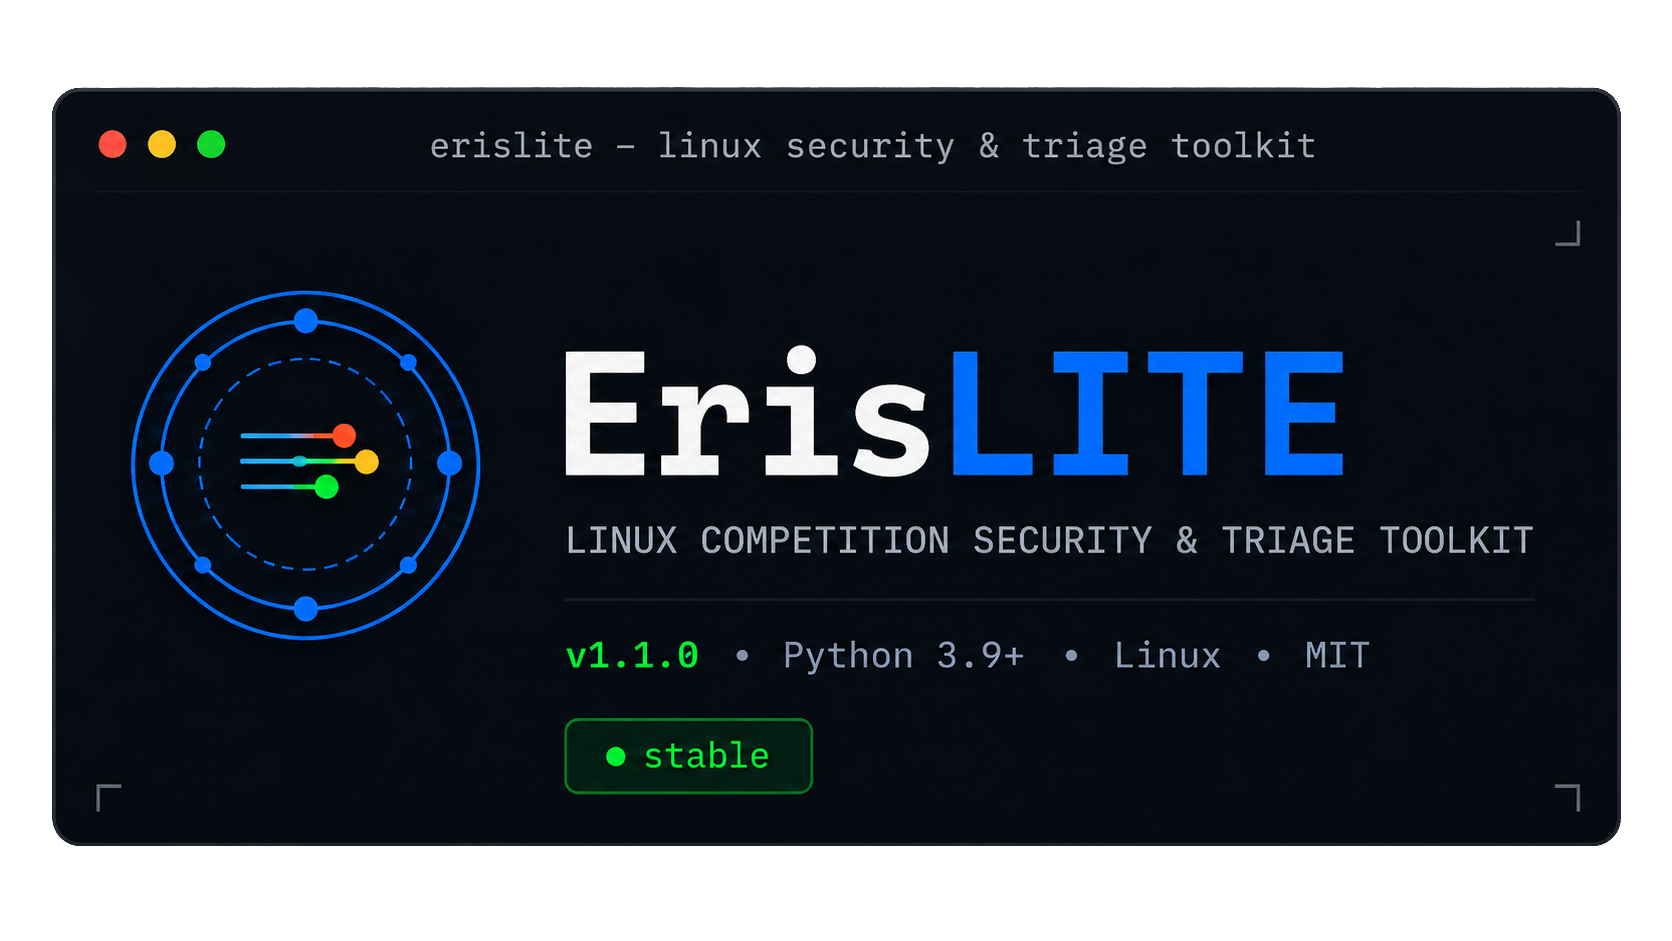
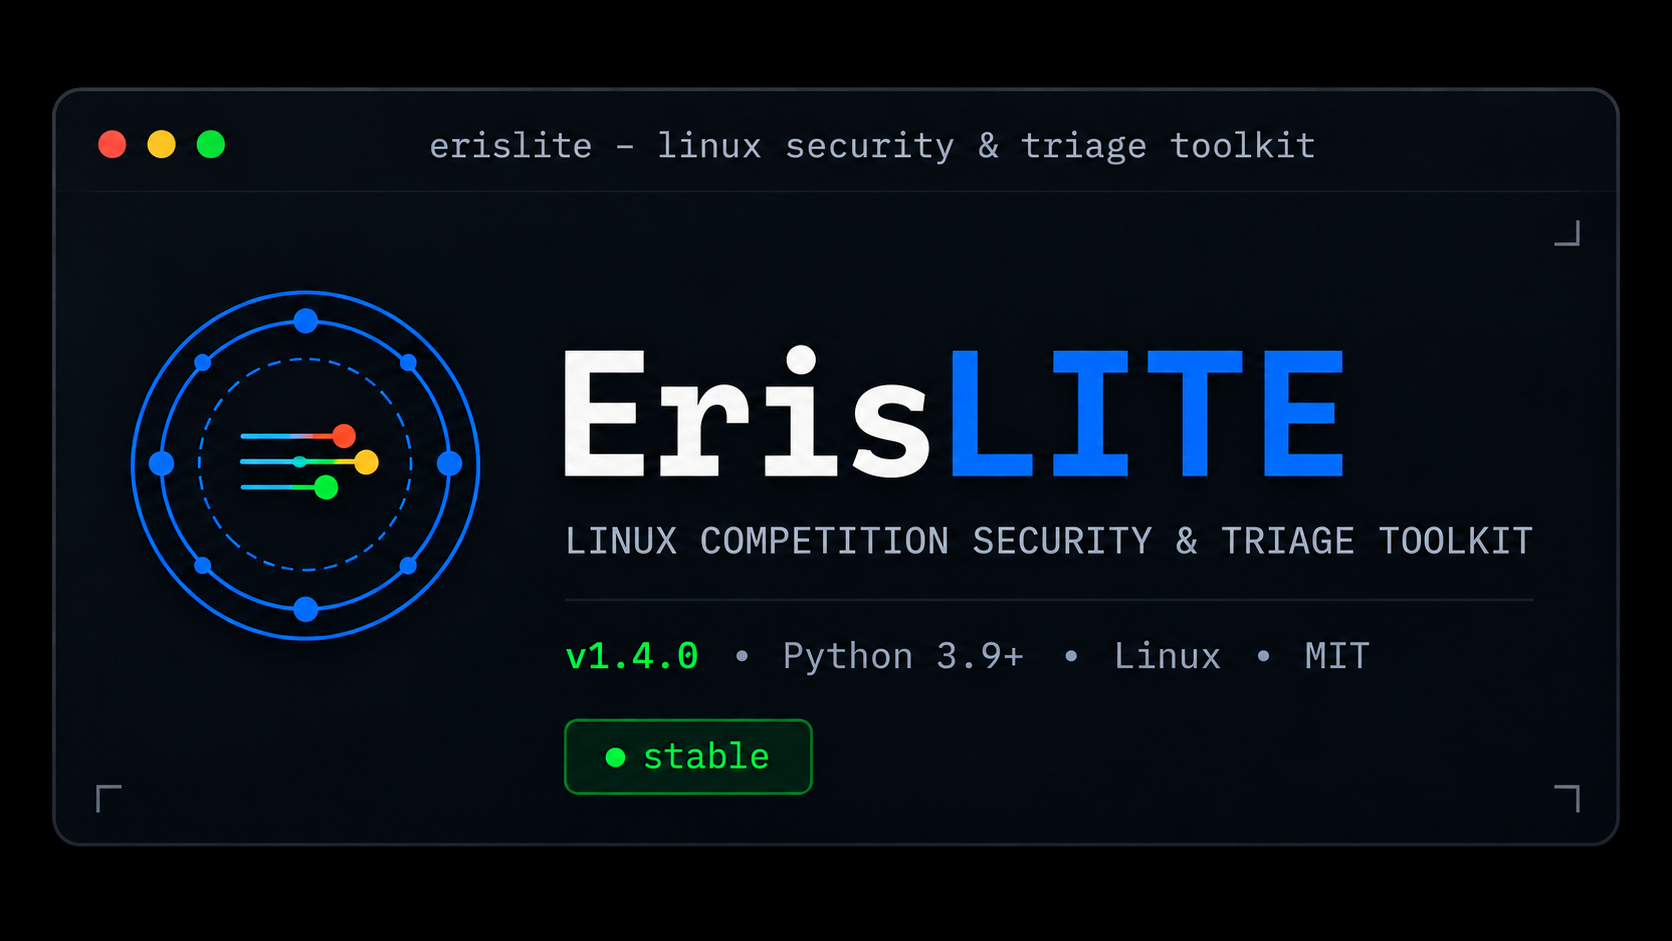
Prepare ErisLITE v1.4.0 release

diff --git a/erislite/version.py b/erislite/version.py
@@ -7,6 +7,6 @@
 # Last Updated: 2026-09-26
 # Description: Single source of truth for ErisLITE version and build metadata.
 
-VERSION = "1.3.0"
-BUILD_DATE = "26SEP26"
+VERSION = "1.4.0"
+BUILD_DATE = "01OCT26"
 VERSION_LABEL = f"ErisLITE v{VERSION}"

diff --git a/README.md b/README.md
@@ -7,7 +7,7 @@
 ![Python](https://img.shields.io/badge/python-3.9%2B-blue)
 ![License](https://img.shields.io/badge/license-MIT-green)
 ![Status](https://img.shields.io/badge/status-stable-green)
-![Version](https://img.shields.io/badge/version-1.3.0-blue)
+![Version](https://img.shields.io/badge/version-1.4.0-blue)
 
 *A modular Linux security monitoring and triage toolkit for analysts, students, and system administrators.*
 
@@ -92,6 +92,11 @@ Odyssey Lite provides:
 - a recent events view with source address, port, service and severity
 - persistent JSONL event logging
 - automatic labeling of its own canaries as `ErisLITE Canary` in Listener Check, so Threat Sweep does not count them as suspicious
+- partial startup when one or more configured ports are unavailable
+- duplicate suppression with repeat-summary persistence
+- bounded in-memory event history
+- callback failure isolation and listener resilience
+- protected event-log storage with permission, ownership, symlink, and hard-link checks
 
 ### Additional Tools
 
@@ -256,7 +261,8 @@ ErisLITE/
 │   └── logs/
 │       ├── threat_sweeps/
 │       ├── soc_mode/
-│       └── network_connections/
+│       ├── network_connections/
+│       └── odyssey/
 │
 ├── infra/
 │   └── systemd/
@@ -276,7 +282,7 @@ ErisLITE/
 
 **Integrity baseline** — File Integrity requires a baseline before it can detect changes. On first run, go to **Security Tools → File Integrity → Create Integrity Baseline** and choose the appropriate `critical`, `system`, or `user` profile. Runtime integrity data is stored under `data/integrity/` and is gitignored by design.
 
-ErisLITE v1.3 keeps separate baselines per profile, records files that were expected to be absent when the baseline was created, distinguishes changed files from incomplete inspection, and reports collection/read failures instead of treating them as clean results. Protected files may require root privileges for complete coverage.
+ErisLITE v1.4 keeps separate baselines per profile, records files that were expected to be absent when the baseline was created, distinguishes changed files from incomplete inspection, and reports collection/read failures instead of treating them as clean results. Protected files may require root privileges for complete coverage.
 
 **User profile** — ErisLITE maintains user and host profile information used by portions of the CLI and snapshot tooling. Runtime user data is stored under `~/.erislite/`.
 

diff --git a/CHANGELOG.md b/CHANGELOG.md
@@ -6,7 +6,7 @@ The format follows [Keep a Changelog](https://keepachangelog.com/en/1.0.0/), and
 
 ---
 
-## [Unreleased]
+## [1.4.0] - 2026-10-01
 
 ### Added
 
